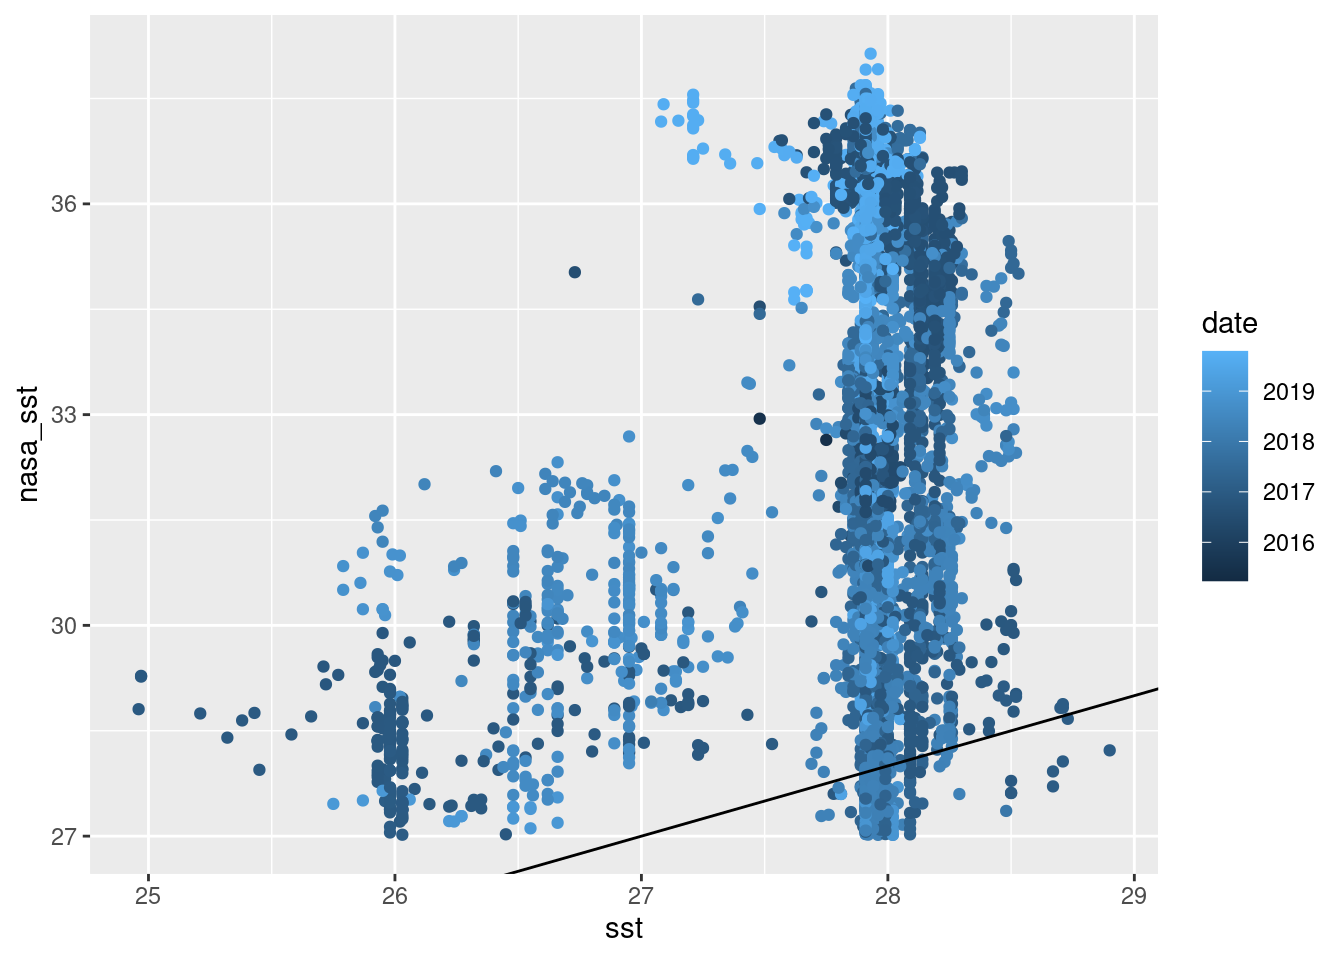
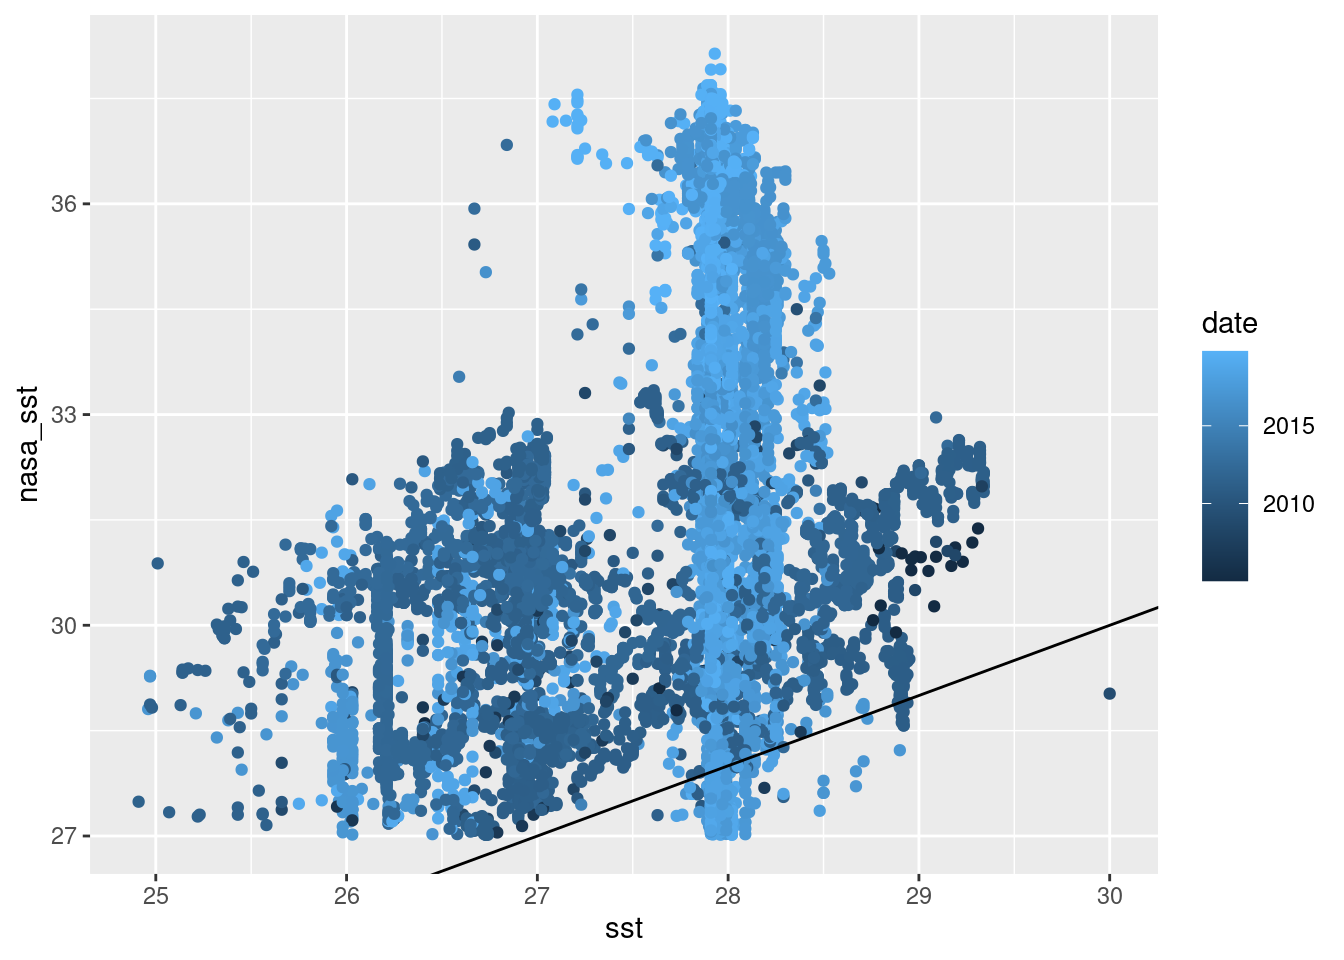
Built site for gh-pages

diff --git a/contents/sst.html b/contents/sst.html
@@ -289,23 +289,17 @@ pre > code.sourceCode > span > a:first-child::before { text-decoration: underlin
 </div>
 </div>
 <p>Searching for NASA sea-surface-temperature data is somewhat tricky, since the search interfaces take only date ranges, not specific dates. The SST data is organized as one netcdf file with global extent for each day, so we’ll have to request all URLs in a date range and then filter those down to the URLs matching the dates we need.</p>
-<p>NASA’s STAC search is much slower and more prone to server errors than most STAC engines. NASA provides its own search API, which is substantially faster and more reliable, though limited to 2000 results per call.</p>
+<p>NASA’s STAC search is unfortunately much slower and more prone to server errors than most STAC engines at present. NASA provides its own search API, which is substantially faster and more reliable, but does not provide metadata in a widely recognized standard. Here we will get 1000s of URLs, covering every day in this nearly 15 year span.</p>
 <div class="cell">
-<div class="sourceCode cell-code" id="cb6"><pre class="sourceCode r code-with-copy"><code class="sourceCode r"><span id="cb6-1"><a href="#cb6-1" aria-hidden="true" tabindex="-1"></a>last_date <span class="ot">&lt;-</span> <span class="fu">as.character</span>(<span class="fu">max</span>(turtles<span class="sc">$</span>date))</span>
-<span id="cb6-2"><a href="#cb6-2" aria-hidden="true" tabindex="-1"></a>resp <span class="ot">&lt;-</span> <span class="fu">edl_search</span>(<span class="at">short_name =</span> <span class="st">"MUR-JPL-L4-GLOB-v4.1"</span>,</span>
-<span id="cb6-3"><a href="#cb6-3" aria-hidden="true" tabindex="-1"></a>                   <span class="at">temporal =</span> <span class="fu">c</span>(<span class="st">"2015-01-01"</span>, last_date))</span>
-<span id="cb6-4"><a href="#cb6-4" aria-hidden="true" tabindex="-1"></a>urls <span class="ot">&lt;-</span> <span class="fu">edl_extract_urls</span>(resp)</span></code><button title="Copy to Clipboard" class="code-copy-button"><i class="bi"></i></button></pre></div>
+<div class="sourceCode cell-code" id="cb6"><pre class="sourceCode r code-with-copy"><code class="sourceCode r"><span id="cb6-1"><a href="#cb6-1" aria-hidden="true" tabindex="-1"></a>urls <span class="ot">&lt;-</span> <span class="fu">edl_search</span>(<span class="at">short_name =</span> <span class="st">"MUR-JPL-L4-GLOB-v4.1"</span>,</span>
+<span id="cb6-2"><a href="#cb6-2" aria-hidden="true" tabindex="-1"></a>                   <span class="at">temporal =</span> <span class="fu">c</span>(<span class="fu">min</span>(turtles<span class="sc">$</span>date), <span class="fu">max</span>(turtles<span class="sc">$</span>date)))</span></code><button title="Copy to Clipboard" class="code-copy-button"><i class="bi"></i></button></pre></div>
 </div>
+<p>Now we subset URLs to only those dates that are found in turtles data.</p>
 <div class="cell">
-<div class="sourceCode cell-code" id="cb7"><pre class="sourceCode r code-with-copy"><code class="sourceCode r"><span id="cb7-1"><a href="#cb7-1" aria-hidden="true" tabindex="-1"></a><span class="co"># Subset urls to only those dates that are found in turtles data please</span></span>
-<span id="cb7-2"><a href="#cb7-2" aria-hidden="true" tabindex="-1"></a>url_dates <span class="ot">&lt;-</span> <span class="fu">as.Date</span>(<span class="fu">gsub</span>(<span class="st">".*(</span><span class="sc">\\</span><span class="st">d{8})</span><span class="sc">\\</span><span class="st">d{6}.*"</span>, <span class="st">"</span><span class="sc">\\</span><span class="st">1"</span>, urls), <span class="at">format=</span><span class="st">"%Y%m%d"</span>)</span>
-<span id="cb7-3"><a href="#cb7-3" aria-hidden="true" tabindex="-1"></a>urls <span class="ot">&lt;-</span> urls[ url_dates <span class="sc">%in%</span> dates ]</span>
-<span id="cb7-4"><a href="#cb7-4" aria-hidden="true" tabindex="-1"></a></span>
-<span id="cb7-5"><a href="#cb7-5" aria-hidden="true" tabindex="-1"></a><span class="co"># If we didnt' search the full turtle history:</span></span>
-<span id="cb7-6"><a href="#cb7-6" aria-hidden="true" tabindex="-1"></a>url_dates <span class="ot">&lt;-</span> <span class="fu">as.Date</span>(<span class="fu">gsub</span>(<span class="st">".*(</span><span class="sc">\\</span><span class="st">d{8})</span><span class="sc">\\</span><span class="st">d{6}.*"</span>, <span class="st">"</span><span class="sc">\\</span><span class="st">1"</span>, urls), <span class="at">format=</span><span class="st">"%Y%m%d"</span>)</span>
-<span id="cb7-7"><a href="#cb7-7" aria-hidden="true" tabindex="-1"></a>mini_turtle <span class="ot">&lt;-</span> turtles <span class="sc">|&gt;</span> <span class="fu">filter</span>(date <span class="sc">%in%</span> url_dates)</span></code><button title="Copy to Clipboard" class="code-copy-button"><i class="bi"></i></button></pre></div>
+<div class="sourceCode cell-code" id="cb7"><pre class="sourceCode r code-with-copy"><code class="sourceCode r"><span id="cb7-1"><a href="#cb7-1" aria-hidden="true" tabindex="-1"></a>url_dates <span class="ot">&lt;-</span> <span class="fu">as.Date</span>(<span class="fu">gsub</span>(<span class="st">".*(</span><span class="sc">\\</span><span class="st">d{8})</span><span class="sc">\\</span><span class="st">d{6}.*"</span>, <span class="st">"</span><span class="sc">\\</span><span class="st">1"</span>, urls), <span class="at">format=</span><span class="st">"%Y%m%d"</span>)</span>
+<span id="cb7-2"><a href="#cb7-2" aria-hidden="true" tabindex="-1"></a>urls <span class="ot">&lt;-</span> urls[ url_dates <span class="sc">%in%</span> dates ]</span></code><button title="Copy to Clipboard" class="code-copy-button"><i class="bi"></i></button></pre></div>
 </div>
-<p>Okay, we have 924 urls now from which to extract temperatures at our observed turtle coordinates.</p>
+<p>Okay, we have 1695 URLs now from which to extract temperatures at our observed turtle coordinates.</p>
 <section id="a-partial-approach-via-stars" class="level2">
 <h2 class="anchored" data-anchor-id="a-partial-approach-via-stars">A partial approach, via stars:</h2>
 <p>This approach works on a subset of URLs, unfortunately stars is not particularly robust at reading in large numbers of URLs</p>
@@ -313,7 +307,7 @@ pre > code.sourceCode > span > a:first-child::before { text-decoration: underlin
 <div class="sourceCode cell-code" id="cb8"><pre class="sourceCode r code-with-copy"><code class="sourceCode r"><span id="cb8-1"><a href="#cb8-1" aria-hidden="true" tabindex="-1"></a>some_urls <span class="ot">&lt;-</span> urls[<span class="dv">1</span><span class="sc">:</span><span class="dv">50</span>]</span>
 <span id="cb8-2"><a href="#cb8-2" aria-hidden="true" tabindex="-1"></a>some_dates <span class="ot">&lt;-</span> <span class="fu">as.Date</span>(<span class="fu">gsub</span>(<span class="st">".*(</span><span class="sc">\\</span><span class="st">d{8})</span><span class="sc">\\</span><span class="st">d{6}.*"</span>, <span class="st">"</span><span class="sc">\\</span><span class="st">1"</span>, some_urls), <span class="at">format=</span><span class="st">"%Y%m%d"</span>)</span>
 <span id="cb8-3"><a href="#cb8-3" aria-hidden="true" tabindex="-1"></a><span class="co"># If we test with a subset of urls, we need to test with a subset of turtles too!</span></span>
-<span id="cb8-4"><a href="#cb8-4" aria-hidden="true" tabindex="-1"></a>tiny_turtle <span class="ot">&lt;-</span> mini_turtle <span class="sc">|&gt;</span> <span class="fu">filter</span>(date <span class="sc">%in%</span> some_dates)</span>
+<span id="cb8-4"><a href="#cb8-4" aria-hidden="true" tabindex="-1"></a>tiny_turtle <span class="ot">&lt;-</span> turtles <span class="sc">|&gt;</span> <span class="fu">filter</span>(date <span class="sc">%in%</span> some_dates)</span>
 <span id="cb8-5"><a href="#cb8-5" aria-hidden="true" tabindex="-1"></a></span>
 <span id="cb8-6"><a href="#cb8-6" aria-hidden="true" tabindex="-1"></a>bench<span class="sc">::</span><span class="fu">bench_time</span>({ </span>
 <span id="cb8-7"><a href="#cb8-7" aria-hidden="true" tabindex="-1"></a>  sst <span class="ot">&lt;-</span> <span class="fu">read_stars</span>(<span class="fu">paste0</span>(<span class="st">"/vsicurl/"</span>, some_urls), <span class="st">"analysed_sst"</span>, </span>
@@ -325,14 +319,14 @@ pre > code.sourceCode > span > a:first-child::before { text-decoration: underlin
 <span id="cb8-13"><a href="#cb8-13" aria-hidden="true" tabindex="-1"></a>})</span></code><button title="Copy to Clipboard" class="code-copy-button"><i class="bi"></i></button></pre></div>
 <div class="cell-output cell-output-stdout">
 <pre><code>process    real 
-  6.84s   1.32m </code></pre>
+  5.58s   1.16m </code></pre>
 </div>
 <div class="sourceCode cell-code" id="cb10"><pre class="sourceCode r code-with-copy"><code class="sourceCode r"><span id="cb10-1"><a href="#cb10-1" aria-hidden="true" tabindex="-1"></a>bench<span class="sc">::</span><span class="fu">bench_time</span>({</span>
 <span id="cb10-2"><a href="#cb10-2" aria-hidden="true" tabindex="-1"></a>  turtle_temp <span class="ot">&lt;-</span> <span class="fu">st_extract</span>(sst, tiny_turtle, <span class="at">time_column =</span> <span class="st">"date"</span>)</span>
 <span id="cb10-3"><a href="#cb10-3" aria-hidden="true" tabindex="-1"></a>})</span></code><button title="Copy to Clipboard" class="code-copy-button"><i class="bi"></i></button></pre></div>
 <div class="cell-output cell-output-stdout">
 <pre><code>process    real 
-  9.71s   2.13m </code></pre>
+ 15.73s   4.58m </code></pre>
 </div>
 </div>
 </section>
@@ -358,22 +352,24 @@ Unlike <code>sf</code>, <code>terra</code> etc, the way <code>gdalcubes</code> c
 </div>
 <p>Now we’re good to go. We create the VRT versions of the URLs to define the cube. We can then extract sst data at the point coordinates given by turtle object.</p>
 <div class="cell">
-<div class="sourceCode cell-code" id="cb15"><pre class="sourceCode r code-with-copy"><code class="sourceCode r"><span id="cb15-1"><a href="#cb15-1" aria-hidden="true" tabindex="-1"></a>bench<span class="sc">::</span><span class="fu">bench_time</span>({</span>
-<span id="cb15-2"><a href="#cb15-2" aria-hidden="true" tabindex="-1"></a>  </span>
-<span id="cb15-3"><a href="#cb15-3" aria-hidden="true" tabindex="-1"></a>cube <span class="ot">&lt;-</span> gdalcubes<span class="sc">::</span><span class="fu">stack_cube</span>(<span class="fu">vrt</span>(urls), <span class="at">datetime_values =</span> url_dates)</span>
-<span id="cb15-4"><a href="#cb15-4" aria-hidden="true" tabindex="-1"></a>sst_df <span class="ot">&lt;-</span> cube <span class="sc">|&gt;</span> <span class="fu">extract_geom</span>(mini_turtle,  <span class="at">time_column =</span> <span class="st">"date"</span>)</span>
-<span id="cb15-5"><a href="#cb15-5" aria-hidden="true" tabindex="-1"></a></span>
-<span id="cb15-6"><a href="#cb15-6" aria-hidden="true" tabindex="-1"></a>})</span></code><button title="Copy to Clipboard" class="code-copy-button"><i class="bi"></i></button></pre></div>
+<div class="sourceCode cell-code" id="cb15"><pre class="sourceCode r code-with-copy"><code class="sourceCode r"><span id="cb15-1"><a href="#cb15-1" aria-hidden="true" tabindex="-1"></a>datetime <span class="ot">&lt;-</span> <span class="fu">as.Date</span>(<span class="fu">gsub</span>(<span class="st">".*(</span><span class="sc">\\</span><span class="st">d{8})</span><span class="sc">\\</span><span class="st">d{6}.*"</span>, <span class="st">"</span><span class="sc">\\</span><span class="st">1"</span>, urls), <span class="at">format=</span><span class="st">"%Y%m%d"</span>)</span>
+<span id="cb15-2"><a href="#cb15-2" aria-hidden="true" tabindex="-1"></a>cube <span class="ot">&lt;-</span> gdalcubes<span class="sc">::</span><span class="fu">stack_cube</span>(<span class="fu">vrt</span>(urls), <span class="at">datetime_values =</span> datetime)</span>
+<span id="cb15-3"><a href="#cb15-3" aria-hidden="true" tabindex="-1"></a></span>
+<span id="cb15-4"><a href="#cb15-4" aria-hidden="true" tabindex="-1"></a>bench<span class="sc">::</span><span class="fu">bench_time</span>({</span>
+<span id="cb15-5"><a href="#cb15-5" aria-hidden="true" tabindex="-1"></a>  </span>
+<span id="cb15-6"><a href="#cb15-6" aria-hidden="true" tabindex="-1"></a>sst_df <span class="ot">&lt;-</span> cube <span class="sc">|&gt;</span> <span class="fu">extract_geom</span>(turtles,  <span class="at">time_column =</span> <span class="st">"date"</span>)</span>
+<span id="cb15-7"><a href="#cb15-7" aria-hidden="true" tabindex="-1"></a></span>
+<span id="cb15-8"><a href="#cb15-8" aria-hidden="true" tabindex="-1"></a>})</span></code><button title="Copy to Clipboard" class="code-copy-button"><i class="bi"></i></button></pre></div>
 <div class="cell-output cell-output-stdout">
 <pre><code>process    real 
-  6.73s   2.86m </code></pre>
+  8.65s   4.51m </code></pre>
 </div>
 </div>
 <p>The resulting <code>data.frame</code> has the NASA value for SST matching the time and space noted noted in the data. The NetCDF appears to encodes temperatures to two decimal points of accuracy by using integers with a scale factor of 100 (integers are more compact to store than floating points), so we have to convert these. There are also what looks like some spurious negative values that may signal missing data.</p>
 <div class="cell">
 <div class="sourceCode cell-code" id="cb17"><pre class="sourceCode r code-with-copy"><code class="sourceCode r"><span id="cb17-1"><a href="#cb17-1" aria-hidden="true" tabindex="-1"></a><span class="co"># re-attach the spatial information</span></span>
 <span id="cb17-2"><a href="#cb17-2" aria-hidden="true" tabindex="-1"></a>turtle_sst <span class="ot">&lt;-</span> </span>
-<span id="cb17-3"><a href="#cb17-3" aria-hidden="true" tabindex="-1"></a>  mini_turtle <span class="sc">|&gt;</span> </span>
+<span id="cb17-3"><a href="#cb17-3" aria-hidden="true" tabindex="-1"></a>  turtles <span class="sc">|&gt;</span> </span>
 <span id="cb17-4"><a href="#cb17-4" aria-hidden="true" tabindex="-1"></a>  tibble<span class="sc">::</span><span class="fu">rowid_to_column</span>(<span class="st">"FID"</span>) <span class="sc">|&gt;</span></span>
 <span id="cb17-5"><a href="#cb17-5" aria-hidden="true" tabindex="-1"></a>  <span class="fu">inner_join</span>(sst_df, <span class="at">by=</span><span class="st">"FID"</span>) <span class="sc">|&gt;</span> </span>
 <span id="cb17-6"><a href="#cb17-6" aria-hidden="true" tabindex="-1"></a>  <span class="co"># NA fill and convert to celsius</span></span>
